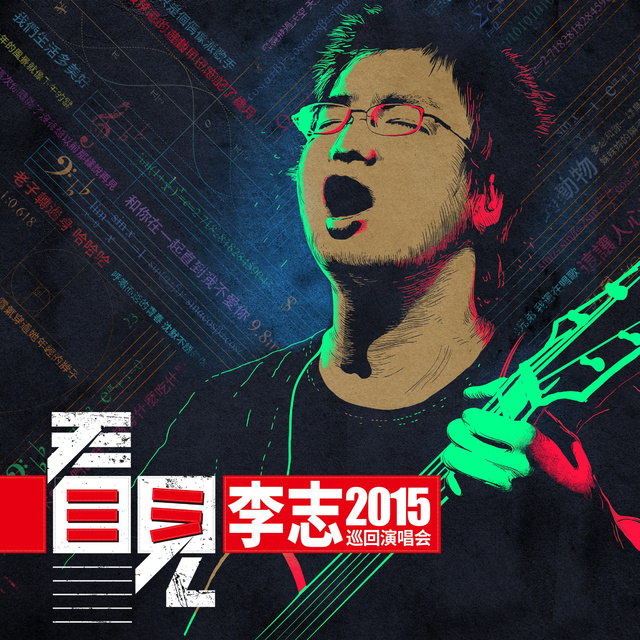
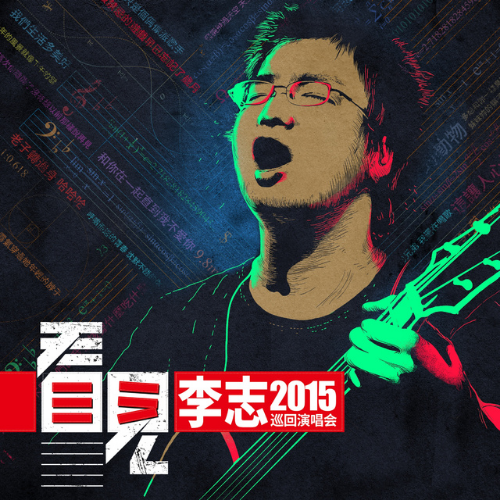
fix: 统一使用 png 尺寸 500 封面

Changed region(s): [[0.09, 0.9, 0.21, 0.93], [0.12, 0.78, 0.18, 0.81], [0.6, 0.81, 0.63, 0.84]]

diff --git a/index.js b/index.js
@@ -12,7 +12,7 @@ glob("./audio/**/*.{mp3,wav,flac}", {}, function (er, files) {
         name: arr[3].replace(/\.(mp3|flac|wav)$/g, ''),
         artist: "专辑-"+arr[2],
         url: 'https://cdn.jsdelivr.net/gh/nj-lizhi/song@master' + item.slice(1),
-        cover: 'https://cdn.jsdelivr.net/gh/nj-lizhi/song@master/audio/' + arr[2] + 'cover.jpg',
+        cover: 'https://cdn.jsdelivr.net/gh/nj-lizhi/song@master/audio/' + arr[2] + 'cover.png',
       })
       download += `https://cdn.jsdelivr.net/gh/nj-lizhi/song@master${item.slice(1)}\n`
     } else {
